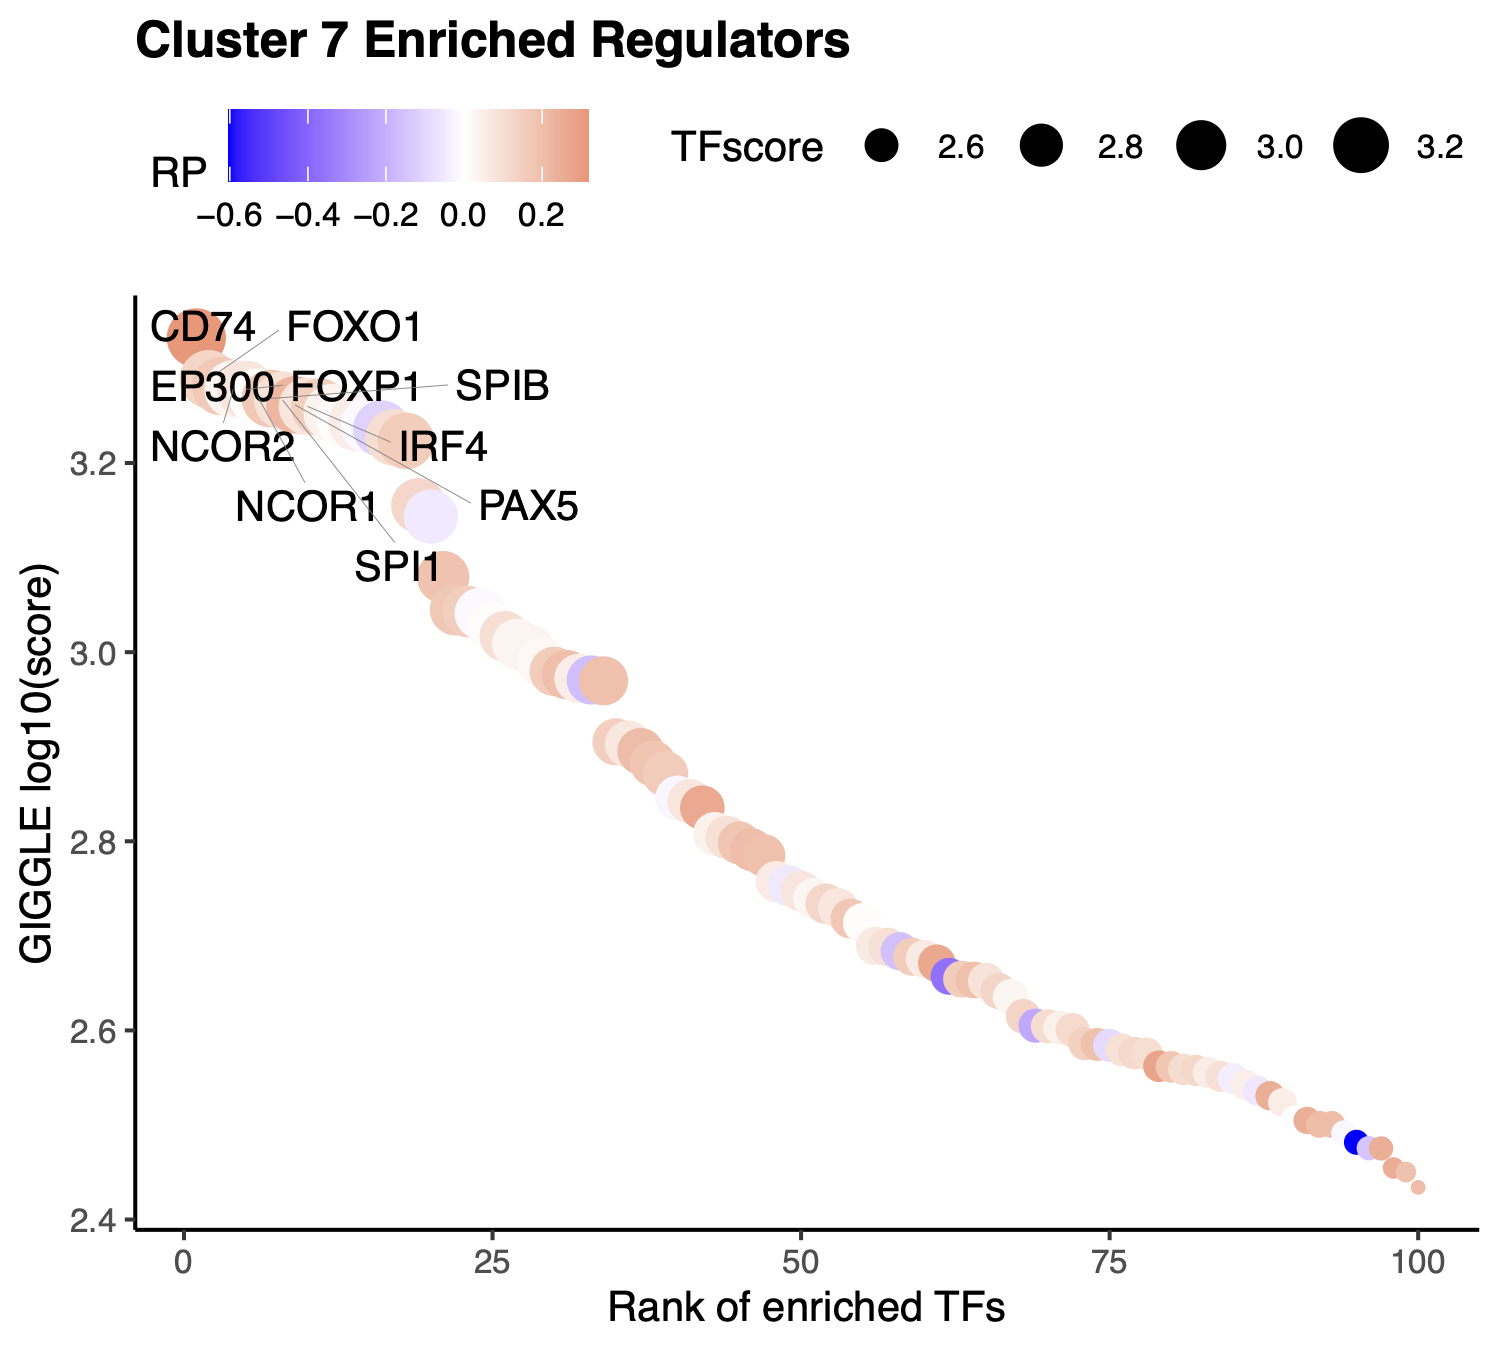
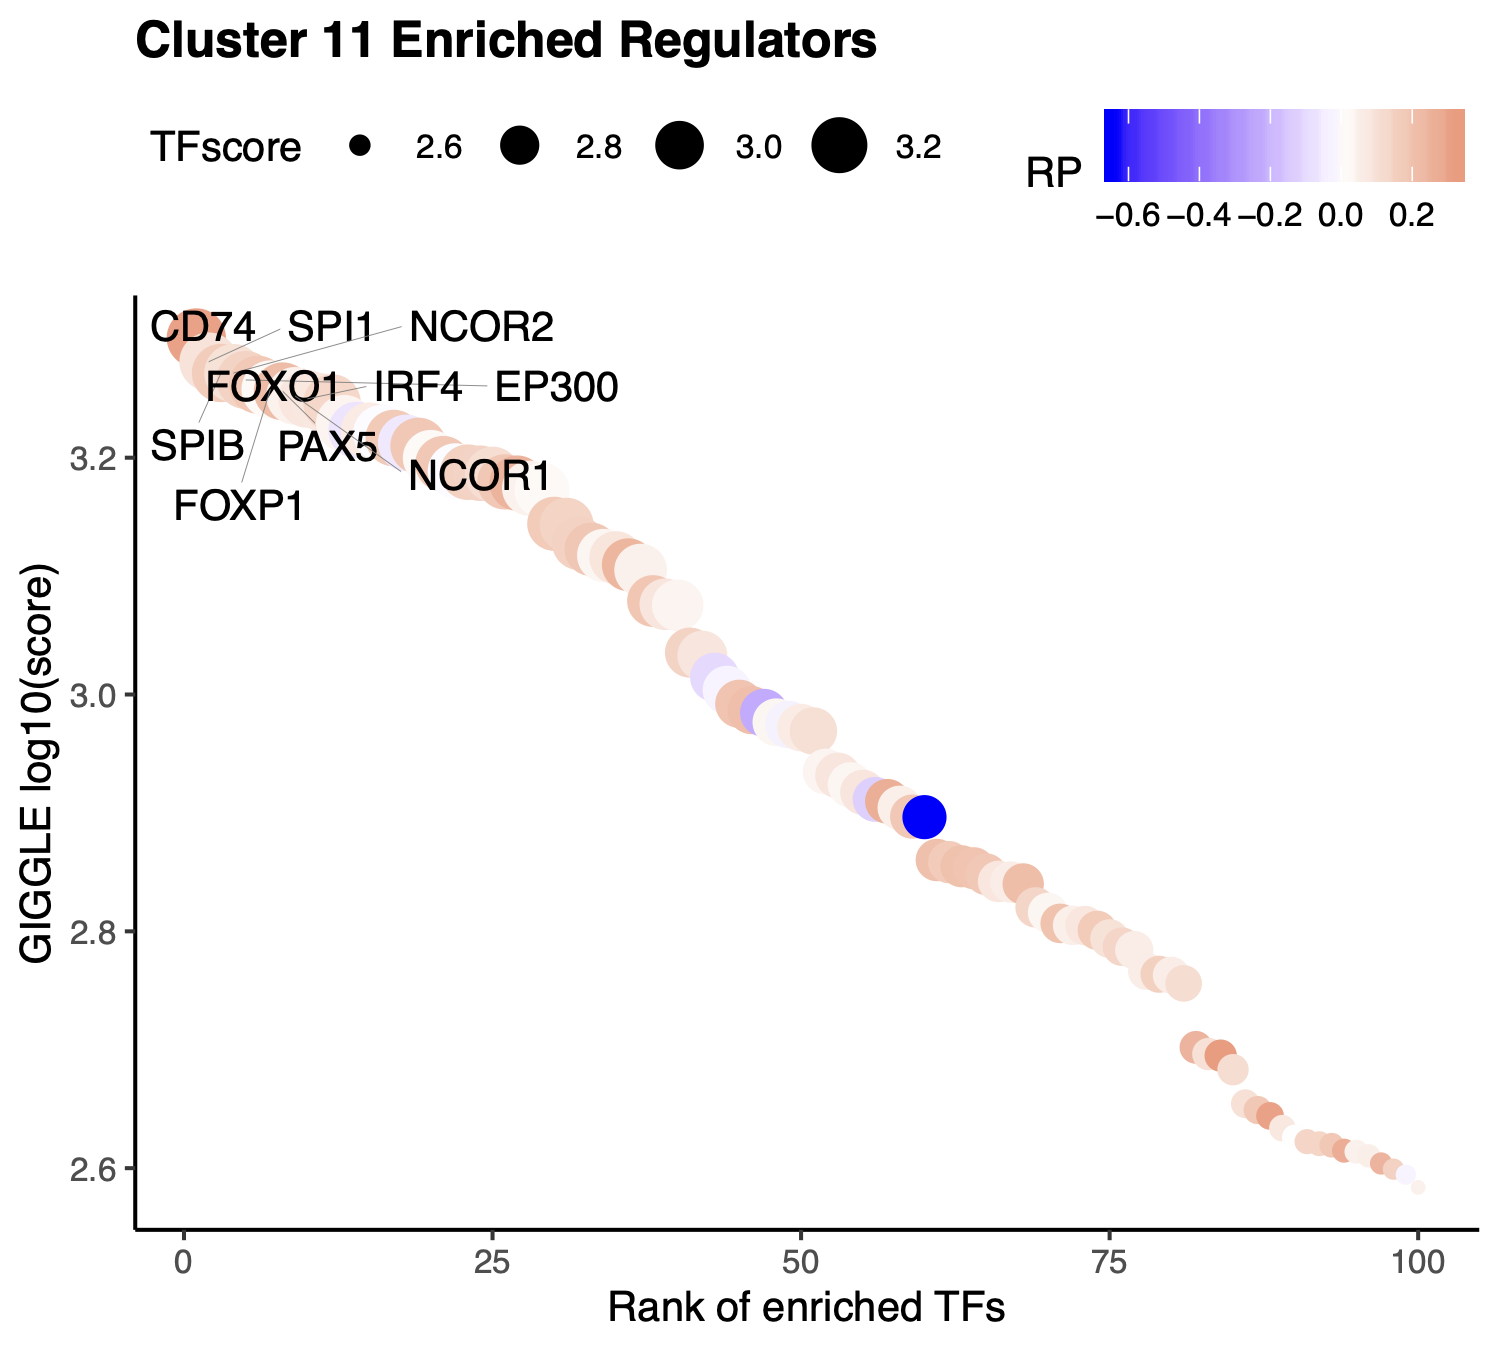
Update images to be consistent, and change findmarkers method to presto

diff --git a/example/ATAC_infrastructure_10x/ATAC_infrastructure_10x.md b/example/ATAC_infrastructure_10x/ATAC_infrastructure_10x.md
@@ -198,7 +198,7 @@ It means reticulate R package cannot find the python shared library. If Anaconda
 
 If users don't install Miniconda or Anaconda, we recommend to use `reticulate::install_miniconda()` to install a Miniconda Python environment and specify the version through `use_python`.
 
-### Step 1. Perform clustering analysis and differential peak calling**      
+### Step 1. Perform clustering analysis and differential peak calling    
 We next create a Seurat object using the peak count matrix and perform the clustering analysis as well as differential peak calling for different clusters. `ATACRunSeurat()` function in MAESTRO integrate muiltiple functions of Seurat and perform the routine analysis as follows.
 
 **Analysis**
@@ -220,25 +220,25 @@ MAESTRO adopts a [wilcox-test](https://www.tandfonline.com/doi/abs/10.1080/01621
                                  dims.use = 1:30,
                                  cluster.res = 0.6,
                                  only.pos = TRUE,
-                                 peaks.test.use = "wilcox",
+                                 peaks.test.use = "presto",
                                  peaks.cutoff = 1e-05,
                                  peaks.pct = 0.1,
                                  peaks.logfc = 0.2)
 > head(pbmc.ATAC.res$peaks)
-                                p_val avg_logFC pct.1 pct.2     p_val_adj
-chr20-50274837-50275400 1.494303e-205 0.4843556 0.485 0.162 1.675652e-200
-chr14-50038442-50039234 3.047673e-184 0.4336734 0.495 0.182 3.417539e-179
-chr18-48896621-48897389 1.822834e-183 0.4404956 0.415 0.131 2.044053e-178
-chr20-40688901-40689960 2.031796e-173 0.4306285 0.451 0.162 2.278374e-168
-chr6-44058462-44059515  2.549222e-168 0.4112970 0.501 0.196 2.858596e-163
-chr22-44068366-44069201 2.086646e-150 0.4008221 0.406 0.144 2.339881e-145
-                        cluster                    peak
-chr20-50274837-50275400       0 chr20-50274837-50275400
-chr14-50038442-50039234       0 chr14-50038442-50039234
-chr18-48896621-48897389       0 chr18-48896621-48897389
-chr20-40688901-40689960       0 chr20-40688901-40689960
-chr6-44058462-44059515        0  chr6-44058462-44059515
-chr22-44068366-44069201       0 chr22-44068366-44069201
+          p_val avg_logFC pct.1 pct.2     p_val_adj cluster
+1  0.000000e+00 0.4752823 0.572 0.135  0.000000e+00       0
+2  0.000000e+00 0.4224288 0.496 0.125  0.000000e+00       0
+3 4.355527e-286 0.3982421 0.478 0.129 6.985916e-281       0
+4 1.797037e-283 0.3954815 0.457 0.118 2.882304e-278       0
+5 1.017501e-255 0.3727491 0.411 0.102 1.631991e-250       0
+6 3.109149e-251 0.3694872 0.409 0.103 4.986827e-246       0
+                      peak
+1   chr6-44058458-44059516
+2  chr14-50038437-50039234
+3 chr9-129777051-129777688
+4  chr20-50274836-50275400
+5 chr8-141137795-141138489
+6 chr2-112839364-112840014
 ```
 
 `ATACRunSeurat()` returns a list of a Seurat object `ATAC` and dataframe `peaks`. Please see [Seurat Github wiki](https://github.com/satijalab/seurat/wiki) for more details of the Seurat object structure. Users can use the `str()` command to get an intuitive understanding of the object.
@@ -256,30 +256,30 @@ We next try to annotate different clusters based on their marker genes. For scAT
 > pbmc.ATAC.res$ATAC <- ATACAnnotateCelltype(ATAC = pbmc.ATAC.res$ATAC,
                                              signatures = human.immune.CIBERSORT, 
                                              min.score = 0.1, 
-                                             genes.test.use = "wilcox",
+                                             genes.test.use = "presto",
                                              genes.cutoff = 1E-5)
 > head(pbmc.ATAC.res$ATAC@meta.data)
-                   orig.ident nCount_ATAC nFeature_ATAC ATAC_snn_res.0.6
-AAACGAAAGAGCGAAA 10X_PBMC_10k        4919          4919                0
-AAACGAAAGAGTTTGA 10X_PBMC_10k        5847          5847                4
-AAACGAAAGCGAGCTA 10X_PBMC_10k        8161          8161                8
-AAACGAAAGGCTTCGC 10X_PBMC_10k       33682         33682               10
-AAACGAAAGTGCTGAG 10X_PBMC_10k        4255          4255                0
-AAACGAAGTCAGGCTC 10X_PBMC_10k        2680          2680                3
+                       orig.ident nCount_ATAC nFeature_ATAC ATAC_snn_res.0.6
+AAACGAAAGAGCGAAA 10X_PBMC_MAESTRO        6073          6073                0
+AAACGAAAGAGTTTGA 10X_PBMC_MAESTRO        7091          7091                2
+AAACGAAAGCGAGCTA 10X_PBMC_MAESTRO       10187         10187                7
+AAACGAAAGGCTTCGC 10X_PBMC_MAESTRO       40191         40191               13
+AAACGAAAGTGCTGAG 10X_PBMC_MAESTRO        5343          5343                0
+AAACGAAGTCAGGCTC 10X_PBMC_MAESTRO        2853          2853                1
                  seurat_clusters nCount_ACTIVITY nFeature_ACTIVITY
-AAACGAAAGAGCGAAA               0        7566.290             20834
-AAACGAAAGAGTTTGA               4        8815.877             22358
-AAACGAAAGCGAGCTA               8       14336.689             25545
-AAACGAAAGGCTTCGC              10       50857.237             34625
-AAACGAAAGTGCTGAG               0        6890.523             19761
-AAACGAAGTCAGGCTC               3        5242.070             15857
+AAACGAAAGAGCGAAA               0        8832.537             19326
+AAACGAAAGAGTTTGA               2       10169.177             20662
+AAACGAAAGCGAGCTA               7       17031.471             24756
+AAACGAAAGGCTTCGC              13       57484.577             34209
+AAACGAAAGTGCTGAG               0        8132.421             18455
+AAACGAAGTCAGGCTC               1        5323.381             13041
                    assign.ident
 AAACGAAAGAGCGAAA      Monocytes
 AAACGAAAGAGTTTGA      Monocytes
 AAACGAAAGCGAGCTA          ActNK
 AAACGAAAGGCTTCGC NaiveCD4Tcells
 AAACGAAAGTGCTGAG      Monocytes
-AAACGAAGTCAGGCTC         Others
+AAACGAAGTCAGGCTC NaiveCD4Tcells
 ```
 
 <img src="./10X_PBMC_10k_annotated.png" width="630" height="420" /> 
@@ -293,7 +293,7 @@ All the reduction results are stored in `Object@reductions`. For example, users 
                group.by = "assign.ident", label.size = 3, 
                cols = brewer.pal(8,"Set2")) + 
        theme_linedraw() + NoLegend()
-> ggsave(file.path(paste0(pbmc.ATAC.res$ATAC@project.name, "_annotated_nolegend.png")), p, width=5, height=5)
+> ggsave(file.path(paste0(pbmc.ATAC.res$ATAC@project.name, "_annotated_nolegend.png")), p, width=4.5, height=4.5)
 ```
 
 <img src="./10X_PBMC_10k_annotated_nolegend.png" width="420" height="420" />
@@ -308,37 +308,37 @@ After identifying enriched transcription regulators, MAESTRO also provides the p
                                                    project = "10X_PBMC_10k", 
                                                    giggle.path = "/home1/wangchenfei/annotations/MAESTRO/giggle")
 > pbmc.ATAC.tfs[["0"]]
- [1] "NR4A1 | RARA | ESRRA | NR4A3 | NR4A2 | RXRA | NR1I3 | THRA | RXRB | RARG | NR1H3 | NR2F6 | VDR | PPARD | PPARA | THRB | ESR2 | PPARG | NR2C1 | NR2F1 | ESR1 | NR5A2 | RXRG | NR2F2 | NR1I2 | HNF4A | NR1H4 | RARB | NR5A1 | ESRRB"
- [2] "IRF1 | IRF3 | STAT3 | SPI1 | STAT2 | BCL6 | BCL11A | STAT1 | IRF2 | IRF8 | SPIB | STAT5A | STAT4 | STAT5B | PRDM1 | IRF4"
+ [1] "RARA | ESRRA | NR4A1 | NR4A2 | NR4A3 | RXRA | NR1I3 | THRA | RXRB | RARG | VDR | NR2F6 | NR1H3 | PPARD | PPARA | PPARG | THRB | ESR2 | NR2C1 | NR2F1 | ESR1 | NR5A2 | NR1I2 | RXRG | NR2F2 | HNF4A | HNF4G | ESRRB | NR1H4 | RARB | NR5A1"
+ [2] "IRF1 | IRF3 | SPI1 | STAT3 | BCL11A | BCL6 | STAT2 | IRF2 | STAT1 | IRF8 | STAT5A | SPIB | STAT5B | PRDM1 | IRF4 | STAT4"
  [3] "PML"
- [4] "GLI1 | GLI3 | GLI2"
- [5] "E4F1 | GMEB2 | ARNT | HIF1A | EPAS1 | AHR"
+ [4] "DBP | ATF4 | DDIT3 | CEBPA | NFIL3 | CEBPB | CEBPD | CEBPG | CEBPE | BATF3 | BATF | HLF"
+ [5] "GLI1 | GLI3 | GLI2"
  [6] "BRD4"
  [7] "SKI"
- [8] "DBP | ATF4 | DDIT3 | CEBPA | CEBPB | NFIL3 | CEBPD | CEBPE | CEBPG | BATF3 | BATF | HLF"
- [9] "NCOR1"
-[10] "JUNB | FOS | FOSB | JUND | FOSL2 | JUN | FOSL1 | NFE2L2 | NFE2 | BACH1 | ZNF554 | BACH2"
+ [8] "E4F1 | GMEB2 | ARNT | HIF1A | AHR | EPAS1"
+ [9] "ELF2 | ELF1 | ETV2 | ETS2 | FLI1 | ELK1 | ETV5 | NFAT5 | GABPA | ETV6 | ELK4 | ETS1 | ETV7 | ELK3 | ETV4 | ERG | ETV1 | EHF | FEV | ELF3 | ELF5"
+[10] "FOS | JUNB | FOSB | JUND | FOSL2 | JUN | FOSL1 | NFE2L2 | NFE2 | BACH1 | ZNF554 | BACH2"
 ```
 
 Besides indentifying TFs for all the clusters, we also support the differential peaks from a single comparison.
 ```R
 > DefaultAssay(pbmc.ATAC.res$ATAC) = "ATAC"
-> de.peakset <- FindMarkersMAESTRO(pbmc.ATAC.res$ATAC, ident.1 = c(0,1,4))
+> de.peakset <- FindMarkersMAESTRO(pbmc.ATAC.res$ATAC, ident.1 = c(0,2,10,12))
 > pbmc.ATAC.monocyte.tfs <- ATACAnnotateTranscriptionFactor(ATAC = pbmc.ATAC.res$ATAC, 
                                                             peaks = de.peakset,
-                                                            cluster = c(0,1,4),
+                                                            cluster = c(0,2,10,12),
                                                             project = "10X_PBMC_10k_Monocyte", 
                                                             giggle.path = "/home1/wangchenfei/annotations/MAESTRO/giggle")
 ```
 
 ### Step 4. Visualize driver transcription factors for each cluster
-According to the annotation of the clusters, we know that cluster 7 is B cells. Next, we want to visualize the enriched regulators in B cells from Step 4. 
+According to the annotation of the clusters, we know that cluster 11 is B cells. Next, we want to visualize the enriched regulators in B cells from Step 4. 
 
 The output TFs from MAESTRO have already been pre-filtered using TF regulatory potential score. 
 ```R
-> tfs = sapply(pbmc.ATAC.tfs[["7"]], function(x) {return(unlist(strsplit(x, split = " | ", fixed = TRUE))[1])})
+> tfs <- sapply(pbmc.ATAC.tfs[["8"]], function(x) {return(unlist(strsplit(x, split = " | ", fixed = TRUE))[1])})
 > p <- VisualizeTFenrichment(TFs = tfs, 
-                             cluster.1 = 7, 
+                             cluster.1 = 11, 
                              type = "ATAC", 
                              SeuratObj = pbmc.ATAC.res$ATAC, 
                              GIGGLE.table = "10X_PBMC_10k_giggle.txt",
@@ -350,7 +350,7 @@ The output TFs from MAESTRO have already been pre-filtered using TF regulatory p
 
 If users want to visualize the top factors without filtering using regulatory potential. Please leave the TFs to blank, then the top 10 regulators will be visualized.
 ```R
-> p <- VisualizeTFenrichment(cluster.1 = 7, 
+> p <- VisualizeTFenrichment(cluster.1 = 11, 
                              type = "ATAC", 
                              SeuratObj = pbmc.ATAC.res$ATAC, 
                              GIGGLE.table = "10X_PBMC_10k_giggle.txt",
@@ -374,11 +374,11 @@ To further filter the regulators, users may want to visualize the expression lev
                         type = "ATAC", 
                         SeuratObj = pbmc.ATAC.res$ATAC, 
                         ncol = 2, 
-                        width = 8.5, 
+                        width = 9, 
                         height = 4, 
                         name = "10X_PBMC_10k_Bcell")
 ```
-<img src="./10X_PBMC_10k_Bcell_vlnplot.png" width="765" height="360" />   
+<img src="./10X_PBMC_10k_Bcell_vlnplot.png" width="810" height="360" />   
 
 ```R
 > p <- VisualizeUmap(genes = c("PAX5","FOXO3"),
@@ -394,7 +394,7 @@ To further filter the regulators, users may want to visualize the expression lev
 Based on the regulatory potential of TFs, we can see that PAX5 is highly expressed in the B cells from PBMC, while FOXO3 is generally distributed. We will next visualize the regulatory potential of PAX5 target genes.
 
 ```R
-> PAX5_target <- as.character(read.table("10X_PBMC_10k.GIGGLE/7.PAX5.34476.target.genes.top500.txt")[1:200,1])
+> PAX5_target <- as.character(read.table("10X_PBMC_10k.GIGGLE/11.PAX5.34475.target.genes.top500.txt")[1:200,1])
 > PAX5_target <- intersect(PAX5_target, rownames(pbmc.ATAC.res$ATAC$ACTIVITY))
 > pbmc.ATAC.res$ATAC@meta.data$PAX5_target <- Matrix::colMeans(GetAssayData(pbmc.ATAC.res$ATAC$ACTIVITY)[PAX5_target, ], na.rm = TRUE)
 > p <- FeaturePlot(pbmc.ATAC.res$ATAC,  features = "PAX5_target", cols = c("grey", "blue"))

diff --git a/example/RNA_infrastructure_10x/RNA_infrastructure_10x.md b/example/RNA_infrastructure_10x/RNA_infrastructure_10x.md
@@ -147,7 +147,7 @@ MAESTRO performs quality control at both bulk and single-cell level. Here we lis
 
 **Mappability plot for scRNA-seq QC analysis (bulk level)**
 
-MAESTRO checks the read mappability and distribution of reads in CDS and intronic regions. CDS read distribution checks proper RNA processing and library preparation which ensures accurate expression quantification. In general, for human or mouse, uniquely mapped reads should account for more than 60% of all reads, and more reads should be distributed in exon regions than intron reads.
+MAESTRO checks the read mappability and distribution of reads in CDS and intronic regions. CDS read distribution checks proper RNA processing and library preparation which ensures accurate expression quantification. In general, for human or mouse, uniquely mapped reads should account for more than 60% of all reads, and more reads should be distributed in exon regions than intron reads. La Manno et al (2018) found that for scRNA-seq, 15–25% of reads contained unspliced intronic sequences. 
 
 <img src="./10X_PBMC_8k_scRNA_read_distr.png" width="422" height="450" /> 
 
@@ -201,7 +201,7 @@ MAESTRO employs the graph-based clustering method in Seurat for scRNA-seq cluste
 * **UMAP visualization:**
 UMAP is used to visualize all the single cells. MAESTRO adopts [UMAP](https://arxiv.org/abs/1802.03426) to achieve a low dimension embedding, in which similar cells are placed together. To get a better result for visualization, users can tune the parameters of `RunUMAP` by adding the arguments in `RNARunSeurat` function, like `RNARunSeurat(inputMat = pbmc.gene, ..., n.neighbors = 20, min.dist = 0.2)`. 
 * **Differential gene analysis:**
-The default differential expression method is [wilcox-test](https://www.tandfonline.com/doi/abs/10.1080/01621459.1972.10481279). Users can also use other model-based methods like [DESeq2](https://bioconductor.org/packages/release/bioc/html/DESeq2.html) and [MAST](https://www.ncbi.nlm.nih.gov/pmc/articles/PMC4676162/). These methods have been integrated into `FindAllMarkers` function in Seurat. We provide `FindAllMarkersMAESTRO` function in MAESTRO, which is adapted from `FindAllMarkers`, to reduce the computational time and memory. Genes with logFC greater than 0.25, minimum presence faction in cells of 0.1, and p-value less than 1E-5 are identified as marker genes for each cluster.
+The default differential expression method is [presto](https://github.com/immunogenomics/presto), a fast version of wilcoxon test. Users can also use other model-based methods like [DESeq2](https://bioconductor.org/packages/release/bioc/html/DESeq2.html) and [MAST](https://www.ncbi.nlm.nih.gov/pmc/articles/PMC4676162/). These methods have been integrated into `FindAllMarkers` function in Seurat. We provide `FindAllMarkersMAESTRO` function in MAESTRO, which is adapted from `FindAllMarkers`, to reduce the computational time and memory. Genes with logFC greater than 0.25, minimum presence faction in cells of 0.1, and p-value less than 1E-5 are identified as marker genes for each cluster.
 
 ```R
 > pbmc.RNA.res <- RNARunSeurat(inputMat = pbmc.gene,
@@ -216,19 +216,19 @@ The default differential expression method is [wilcox-test](https://www.tandfonl
                                dims.use = 1:15,
                                cluster.res = 0.6,
                                only.pos = FALSE,
-                               genes.test.use = "wilcox",
+                               genes.test.use = "presto",
                                genes.cutoff = 1e-05,
                                genes.pct = 0.1,
                                genes.logfc = 0.25)
 
 > head(pbmc.RNA.res$genes)
-           p_val avg_logFC pct.1 pct.2 p_val_adj cluster       gene
-S100A8         0  3.560335 0.992 0.390         0       0     S100A8
-S100A9         0  3.443707 0.993 0.463         0       0     S100A9
-LYZ            0  2.812824 0.994 0.460         0       0        LYZ
-S100A12        0  2.694738 0.914 0.080         0       0    S100A12
-AC020656.1     0  2.442931 0.967 0.115         0       0 AC020656.1
-FCN1           0  2.278404 0.976 0.143         0       0       FCN1
+  p_val avg_logFC pct.1 pct.2 p_val_adj cluster       gene
+1     0  3.560335 0.992 0.390         0       0     S100A8
+2     0  3.443707 0.993 0.463         0       0     S100A9
+3     0  2.812824 0.994 0.460         0       0        LYZ
+4     0  2.694738 0.914 0.080         0       0    S100A12
+5     0  2.442931 0.967 0.115         0       0 AC020656.1
+6     0  2.278404 0.976 0.143         0       0       FCN1
 ```
 
 `RNARunSeurat()` returns a list of a Seurat object `RNA` and dataframe `genes`. Please see [Seurat Github wiki](https://github.com/satijalab/seurat/wiki) for more details of the Seurat object structure. Users can use the `str()` command to get an intuitive understanding of the object.

diff --git a/example/Integration_large/Integration_large.md b/example/Integration_large/Integration_large.md
@@ -107,8 +107,7 @@ $ gunzip GSE123813_BCC_scRNA_metadata.txt.gz
 ```
 
 ### Step 6. Perform clustering analysis and cell type annotation for BCC scRNA-seq
-Then users can load the BCC scRNA-seq dataset into R, perform clustering analysis like the [previous demonstrations](https://github.com/chenfeiwang/MAESTRO/blob/master/example/RNA_infrastructure_10x/RNA_infrastructure_10x.md), and annotate the scRNA-seq clusters using original labels.
-
+Then users can load the BCC scRNA-seq dataset into R, perform clustering analysis like the [previous demonstrations](../RNA_infrastructure_10x/RNA_infrastructure_10x.md).
 ```R
 > bcc <- Read10X_h5('GSE123813_BCC_scRNA_counts.h5')
 > bcc.expr <- RNACountToTPM(bcc, idType = "Symbol")
@@ -123,13 +122,46 @@ Then users can load the BCC scRNA-seq dataset into R, perform clustering analysi
                               cluster.res = 0.6,
                               genes.test.use = "wilcox",
                               genes.cutoff = 1e-05)
+```
+
+<img src="./GSE123813_BCC_scRNA_cluster.png" width="525" height="420" /> 
+
+Then we can annotate the scRNA-seq clusters using public immune signatures from CIBERSORT.
+```R
+> data(human.immune.CIBERSORT)
+> bcc.RNA.res$RNA <- RNAAnnotateCelltype(RNA = bcc.RNA.res$RNA, 
+                                         gene = bcc.RNA.res$gene,
+                                         signatures = human.immune.CIBERSORT, 
+                                         min.score = 0.05)
+```
+
+<img src="./GSE123813_BCC_scRNA_annotated.png" width="525" height="420" /> 
+
+This scRNA-seq dataset provides metadata. So, we can also annotate the scRNA-seq clusters using the original labels.
+```R
 > bcc.RNA.anno <- read.delim("GSE123813_BCC_scRNA_metadata.txt")
-> bcc.RNA.res$RNA@meta.data = cbind(bcc.RNA.res$RNA@meta.data, bcc.RNA.anno[match(colnames(bcc.RNA.res$RNA), bcc.RNA.anno[,1]),c(2,3,5)])
-> bcc.RNA.res$RNA@meta.data$assign.ident = bcc.RNA.res$RNA@meta.data$cluster
-> p = DimPlot(object = bcc.RNA.res$RNA, label = TRUE, pt.size = 0.2, group.by = "assign.ident", label.size = 3, repel = TRUE)
+> bcc.RNA.res$RNA@meta.data <- cbind(bcc.RNA.res$RNA@meta.data, bcc.RNA.anno[match(colnames(bcc.RNA.res$RNA), bcc.RNA.anno[,1]),c(2,3,5)])
+> p = DimPlot(object <- bcc.RNA.res$RNA, label = TRUE, pt.size = 0.2, group.by = "cluster", label.size = 3, repel = TRUE)
 > ggsave(paste0(bcc.RNA.res$RNA@project.name, "_annotated_meta.png"), p, width=6.5, height=4.5)
 ```
+
 <img src="./GSE123813_BCC_scRNA_annotated_meta.png" width="650" height="450" /> 
+
+We can combine the MAESTRO automatic annotation results and the original labels, and then finalize the clusters mannually. 
+```R
+> current.cluster.ids <- levels(bcc.RNA.res$RNA@meta.data$seurat_clusters)
+> new.cluster.ids <- c("0:CD8Teff", "1:CD4Tconv", "2:B", "3:CD4Tconv", "4:Treg", 
+                       "5:CD8Teff", "6:CD8Teff", "7:Malignant", "8:mDC", "9:Plasma", 
+                       "10:MonoMac", "11:CAF", "12:TProliferation", "13:pDC", "14:Malignant", 
+                       "15:Plasma", "16:Endothelial", "17:CAF", "18:Melanocyte")
+> assign.ident.mannual <- plyr::mapvalues(x = bcc.RNA.res$RNA@meta.data$seurat_clusters, from = current.cluster.ids, to = new.cluster.ids)
+> bcc.RNA.res$RNA@meta.data$assign.ident.CIBERSORT = bcc.RNA.res$RNA@meta.data$assign.ident
+> bcc.RNA.res$RNA@meta.data$assign.ident = assign.ident.mannual
+> p = DimPlot(object = bcc.RNA.res$RNA, label = TRUE, pt.size = 0.2, group.by = "assign.ident", label.size = 3, repel = T)
+> ggsave(paste0(bcc.RNA.res$RNA@project.name, "_annotated_mannually.png"), p, width=6, height=4)
+```
+
+<img src="./GSE123813_BCC_scRNA_annotated_mannually.png" width="630" height="420" /> 
 
 ### Step 7. Integrated analysis of BCC scATAC-seq and scRNA-seq
 Next, we can integrate the BCC scATAC-seq clusters with scRNA-seq clusters, co-embed the scRNA-seq and scATAC-seq cells in the same low dimensional space, and transfer the cell type labels from scRNA-seq to scATAC-seq. MAESTRO will automatically generate the scATAC and scRNA co-aligned visualization, cell-type annotated visualization using scRNA-seq labels, RNA-only visualization, and ATAC-only visualization.
